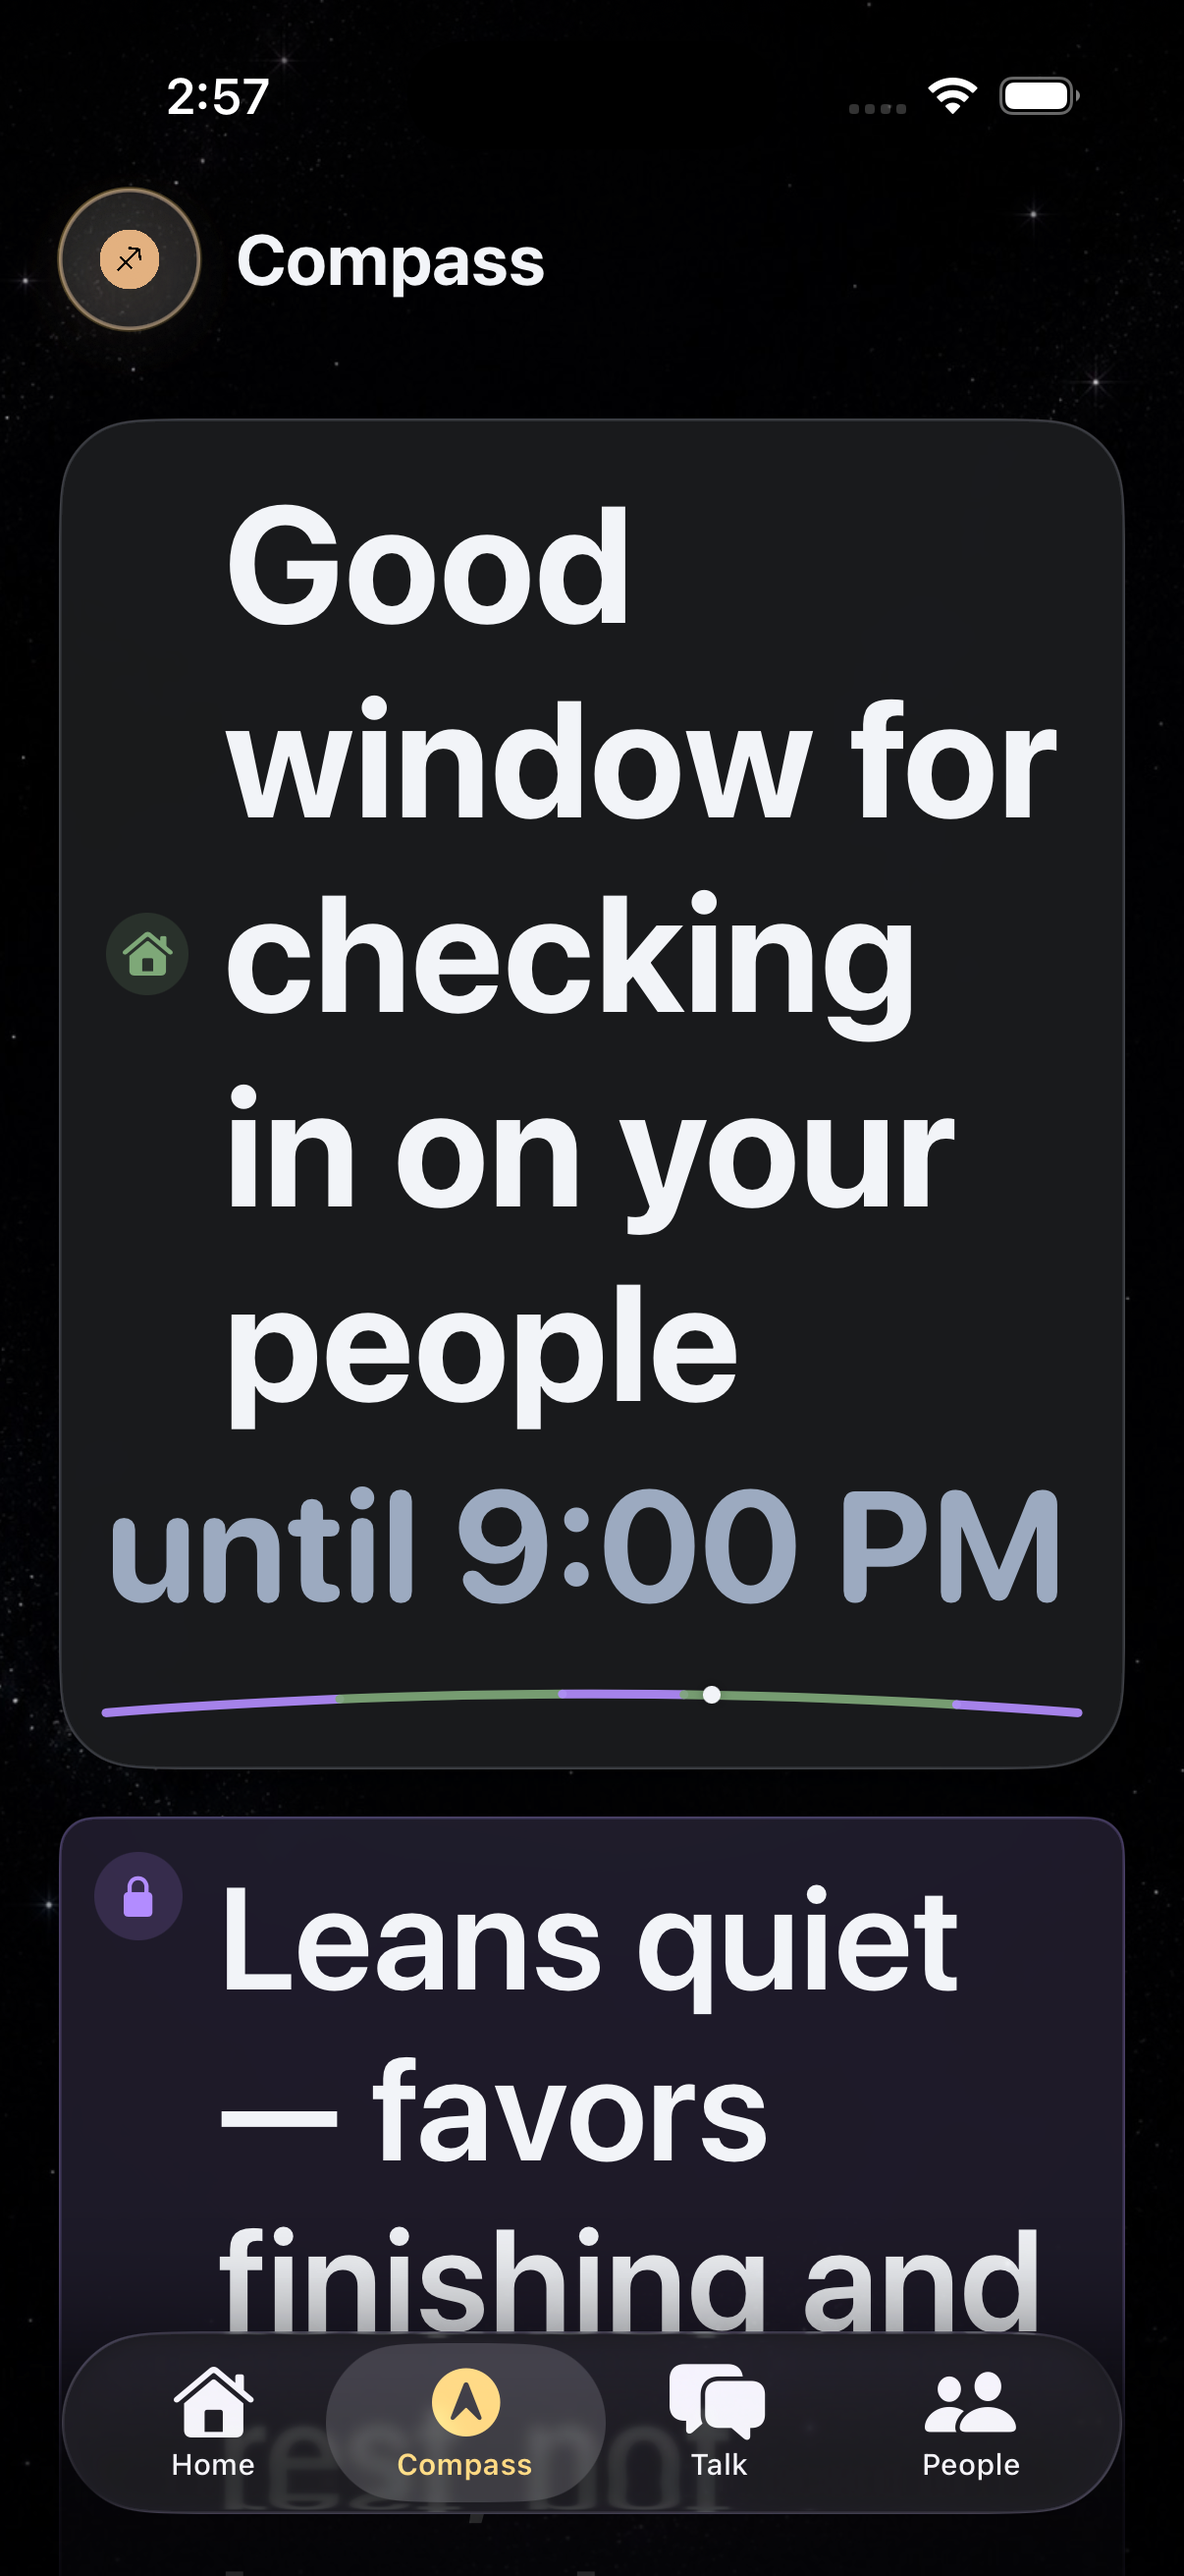
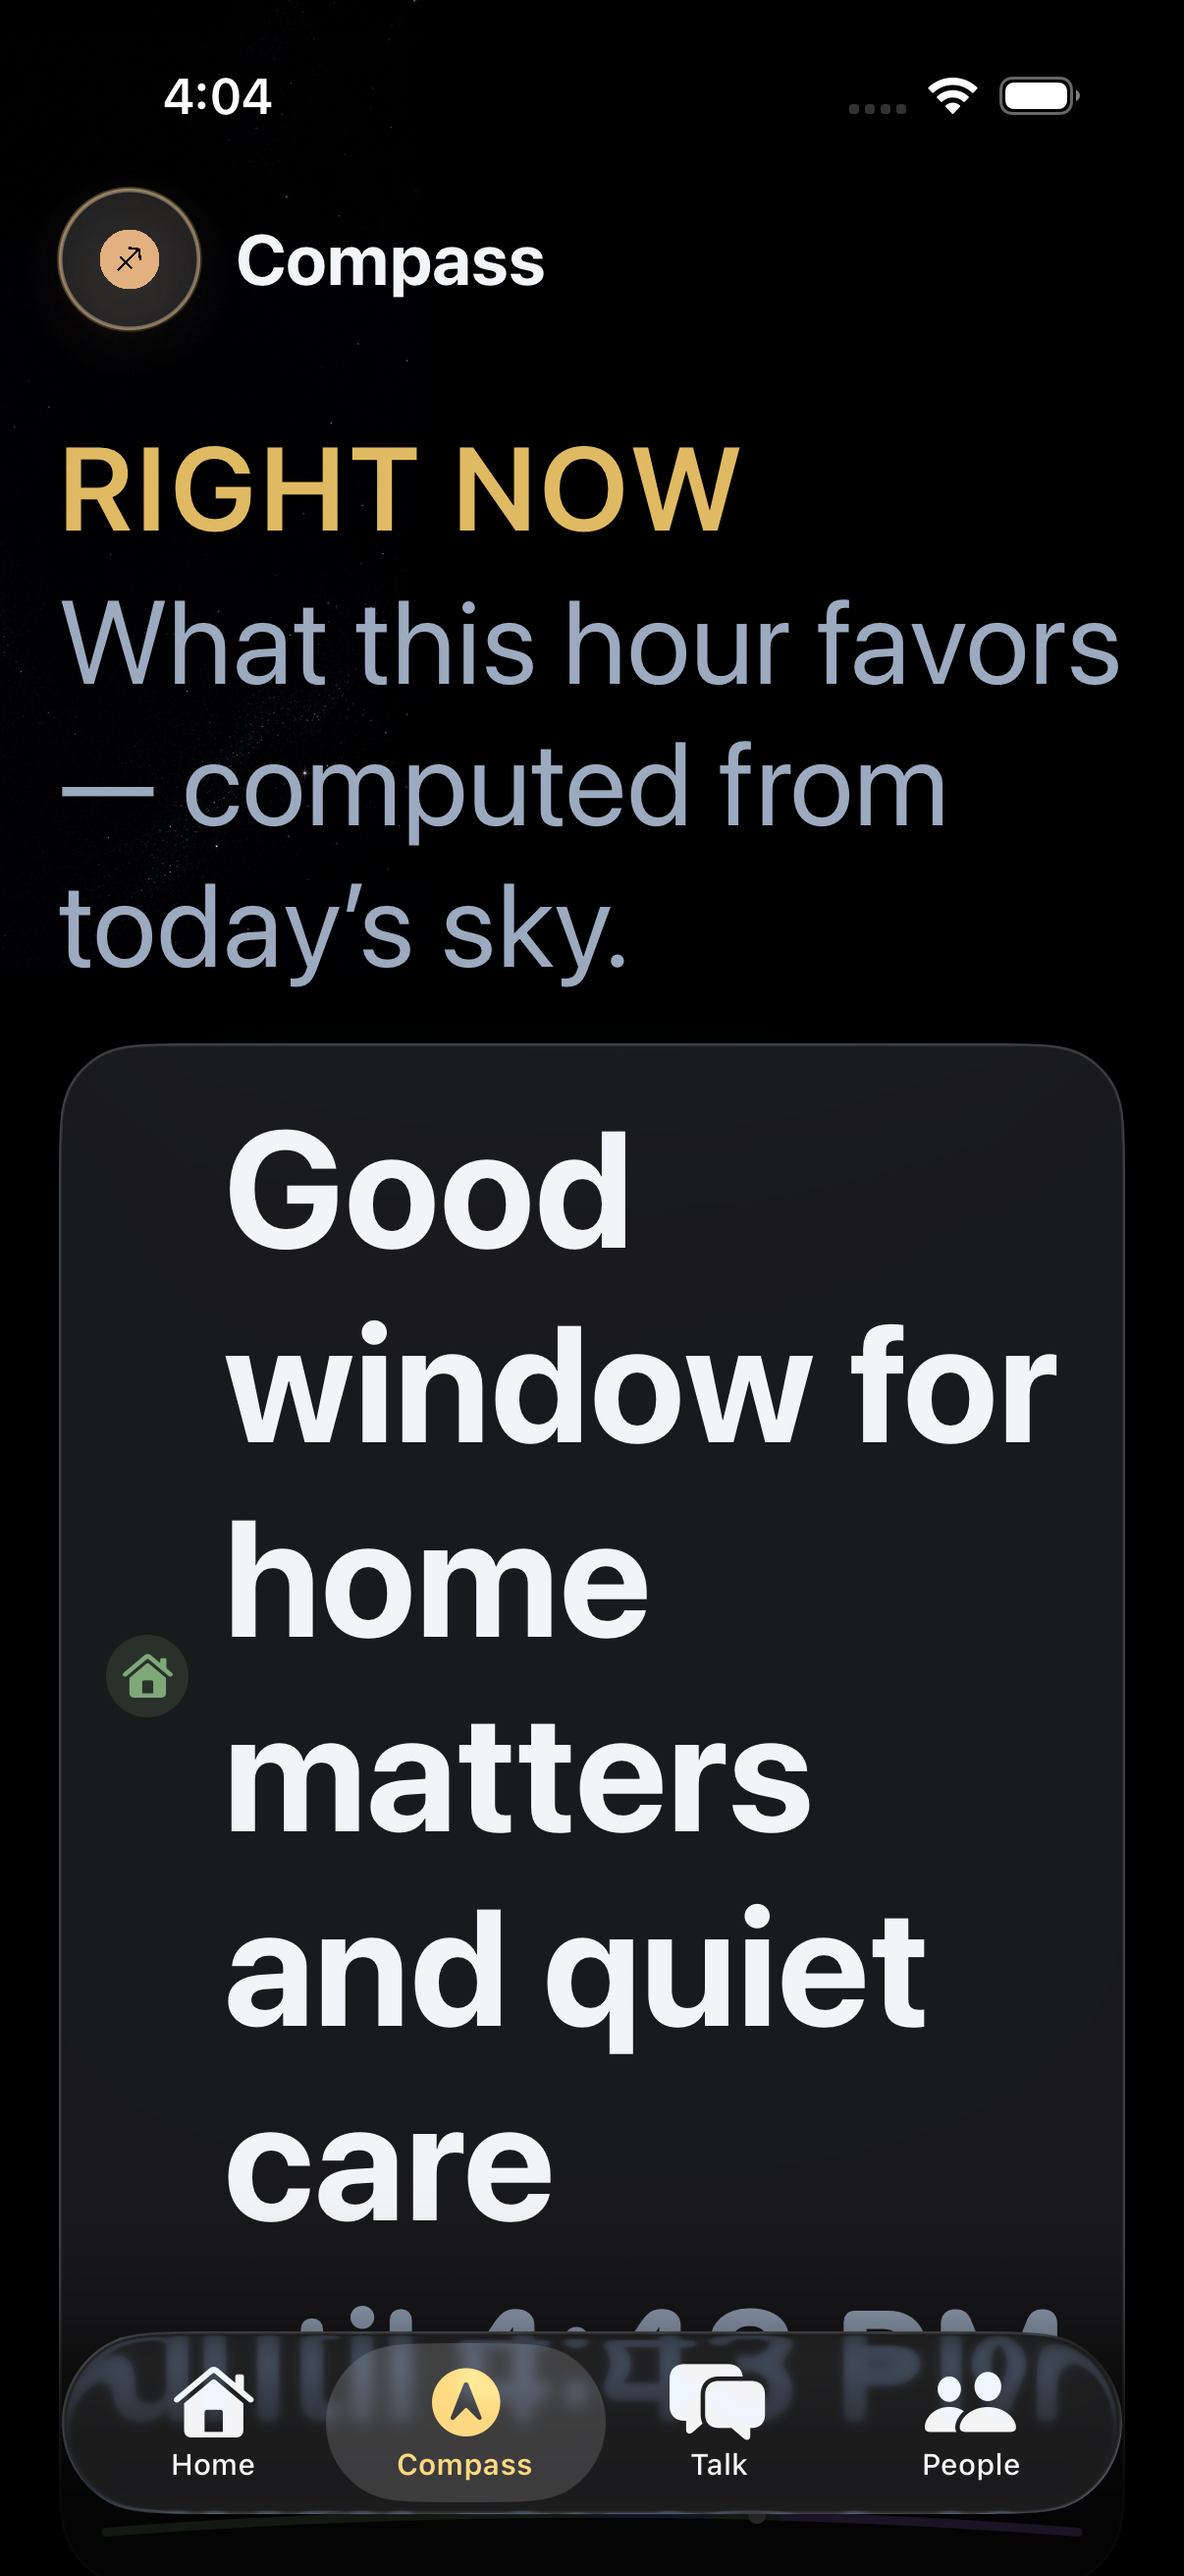
Make the Compass instrument read plainly for newcomers
A RIGHT NOW kicker and a "what this hour favors — computed from
today's sky" caption now frame the dial, so someone who knows no
astrology understands what they are looking at; quiet and personal
windows drop the personal token's padlock (which read as paywalled
content on a free timeline) for neutral glyphs; and the 366x3 language
lint now also bans astrology jargon from the default practical style.

Landing the framing surfaced a serious latent bug: scrolling to the
composer anchor inside the LazyVStack could wedge the layout in a
non-convergent estimate/anchor cycle that pegged the main thread
("process main thread busy for 30.0s"), hanging the app for real users
and every UITest interaction after the composer expanded. Which content
heights triggered it changed with the day's window titles — this is
what intermittently failed the composer UITests in earlier full-suite
runs. The scroll content is now an eager VStack (a dozen children;
laziness bought nothing), and the day-windows compute task keeps a
computed-key guard so re-appearances skip redundant ephemeris work.

Verified: mirror Debug build; 47/47 SimastryTests including the new
jargon lint; the five affected UITests green, with the previously
hanging testCompassProgressivelyRevealsIntentContext soaked 5/5 in the
exact content period where the LazyVStack version failed 5/5 (and the
pre-change tree passed 5/5, isolating the trigger); all four compass
baselines regenerated and reviewed (kicker/caption present, no
[…]

diff --git a/App/Views/CompassInstrumentComponents.swift b/App/Views/CompassInstrumentComponents.swift
@@ -28,8 +28,14 @@ private func compassTint(for tokenID: String) -> Color {
     compassToken(for: tokenID)?.color ?? SimastryColor.gold
 }
 
-private func compassIcon(for tokenID: String) -> String {
-    compassToken(for: tokenID)?.systemImage ?? "sparkles"
+/// C2: instrument surfaces map icons by window kind, not raw token — the
+/// personal token's padlock reads as "locked content" on a free timeline,
+/// so quiet and personal windows get neutral glyphs here. The composer's
+/// Private chip keeps its lock, where privacy is the intended meaning.
+private func compassIcon(for window: DayWindow) -> String {
+    if window.kind == .quiet { return "moon.zzz.fill" }
+    if window.tokenID == SimastryCategoryToken.personal.rawValue { return "sparkles" }
+    return compassToken(for: window.tokenID)?.systemImage ?? "sparkles"
 }
 
 private func compassTimeRangeText(_ interval: DateInterval) -> String {
@@ -39,6 +45,30 @@ private func compassTimeRangeText(_ interval: DateInterval) -> String {
 private func compassSegmentAccessibilityLabel(_ window: DayWindow, isCurrent: Bool) -> String {
     let base = "\(compassClockFormatter.string(from: window.interval.start))–\(compassClockFormatter.string(from: window.interval.end)), \(window.title)"
     return isCurrent ? "\(base), current" : base
+}
+
+// MARK: - Dial framing (C1)
+
+/// The one-line frame that tells a newcomer what the dial is, kept OUTSIDE
+/// the dial card on purpose: children added inside the TimelineView-driven
+/// card put its height into a feedback loop with the composer-expand scroll
+/// (lazy re-instantiation restarts the arc sweep, the animation never
+/// settles, and XCUITest's idle wait hangs). Static text out here restarts
+/// nothing. Shared by the authed Compass and the guest surface.
+struct CompassDialFraming: View {
+    var body: some View {
+        VStack(alignment: .leading, spacing: SimastrySpacing.xxs) {
+            Text("RIGHT NOW")
+                .font(SimastryFont.overline)
+                .foregroundStyle(SimastryColor.gold)
+                .tracking(1.2)
+            Text("What this hour favors — computed from today’s sky.")
+                .font(SimastryFont.captionSmall)
+                .foregroundStyle(SimastryColor.mutedSilver)
+                .fixedSize(horizontal: false, vertical: true)
+        }
+        .accessibilityElement(children: .combine)
+    }
 }
 
 // MARK: - Now dial
@@ -80,13 +110,13 @@ struct CompassNowDial: View {
 
     private var accessibilityLabel: String {
         guard let window = currentWindow else { return "Today's windows, loading" }
-        return "\(window.title). Until \(compassClockFormatter.string(from: window.interval.end))."
+        return "\(window.title). Until \(compassClockFormatter.string(from: window.interval.end)). Computed from today's sky."
     }
 
     @ViewBuilder
     private func dialLine(result: DayWindowsResult, window: DayWindow) -> some View {
         let tint = compassTint(for: window.tokenID)
-        let icon = compassIcon(for: window.tokenID)
+        let icon = compassIcon(for: window)
         let untilText = "until \(compassClockFormatter.string(from: window.interval.end))"
 
         VStack(alignment: .leading, spacing: SimastrySpacing.sm) {
@@ -356,7 +386,7 @@ struct CompassTodayStrip: View {
 
     private func segmentButton(window: DayWindow, index: Int) -> some View {
         let tint = compassTint(for: window.tokenID)
-        let icon = compassIcon(for: window.tokenID)
+        let icon = compassIcon(for: window)
         let isSelected = selection == window.id
         let isCurrent = window.interval.contains(now)
 
@@ -436,7 +466,7 @@ struct CompassTodayStrip: View {
 
     private func verticalRow(window: DayWindow, index: Int) -> some View {
         let tint = compassTint(for: window.tokenID)
-        let icon = compassIcon(for: window.tokenID)
+        let icon = compassIcon(for: window)
         let isSelected = selection == window.id
         let isCurrent = window.interval.contains(now)
 

diff --git a/App/Views/SimulateView.swift b/App/Views/SimulateView.swift
@@ -35,6 +35,11 @@ struct SimulateView: View {
     @State private var transitReading: DailyTransitReading?
     @State private var submissionCoordinator = PredictionSubmissionCoordinator.shared
     @State private var dayWindows: DayWindowsResult?
+    /// The task key `dayWindows` was last computed for. The compute task
+    /// re-runs whenever the instrument re-appears (tab switches, navigation
+    /// pushes); the guard skips the ephemeris math and the state rewrite
+    /// when nothing about the day or style actually changed.
+    @State private var computedDayWindowsKey: String?
     @State private var selectedWindowID: String?
     @State private var canonicalDailyGuidance: DailyGuidance?
     /// D3: the composer is demoted behind `CompassAskYourOwnRow`, collapsed
@@ -295,6 +300,8 @@ struct SimulateView: View {
     @ViewBuilder
     private var compassInstrument: some View {
         VStack(alignment: .leading, spacing: SimastrySpacing.md) {
+            CompassDialFraming()
+
             TimelineView(.everyMinute) { context in
                 VStack(alignment: .leading, spacing: SimastrySpacing.md) {
                     instrumentReveal(CompassNowDial(result: dayWindows, now: context.date), step: 0)
@@ -304,6 +311,7 @@ struct SimulateView: View {
                     )
                 }
                 .task(id: dayWindowsTaskKey(for: context.date)) {
+                    guard computedDayWindowsKey != dayWindowsTaskKey(for: context.date) else { return }
                     await recomputeDayWindows(now: context.date)
                 }
             }
@@ -375,7 +383,16 @@ struct SimulateView: View {
     var body: some View {
         ScrollViewReader { proxy in
             ScrollView {
-                LazyVStack(alignment: .leading, spacing: SimastrySpacing.lg) {
+                // Eager on purpose. This screen has about a dozen children, so
+                // laziness buys nothing — and it cost a hard main-thread spin:
+                // `scrollTo(composerAnchorID)` inside a LazyVStack whose row
+                // heights re-negotiate (ViewThatFits dial, flexible captions)
+                // can make the lazy height estimates and the anchor position
+                // chase each other without converging, pegging the main thread
+                // ("process main thread busy for 30.0s") the moment the
+                // composer expands. A plain VStack has exact geometry, so the
+                // anchor scroll resolves in one pass.
+                VStack(alignment: .leading, spacing: SimastrySpacing.lg) {
                     compassInstrument
 
                     instrumentReveal(
@@ -593,6 +610,7 @@ struct SimulateView: View {
             style: style
         )
         dayWindows = await DayWindowsEngine.windows(for: inputs)
+        computedDayWindowsKey = dayWindowsTaskKey(for: now)
     }
 
     private func applyLegacyDraftIfNeeded() {

diff --git a/Tests/DayWindowsEngineTests.swift b/Tests/DayWindowsEngineTests.swift
@@ -259,6 +259,22 @@ final class DayWindowsEngineTests: XCTestCase {
                     }
                     XCTAssertFalse(title.contains("°"), "degree language never belongs in titles: \(title)")
                     XCTAssertFalse(entry.rationale.contains("°"), "degree language never belongs in rationales: \(entry.rationale)")
+                    if style == .practical {
+                        // The default style is the consumer-facing one: it must
+                        // read for someone who knows no astrology. Jargon lives
+                        // in the detail card and the opt-in richer styles.
+                        let jargon = [
+                            "trine", "sextile", "conjunct", "opposition", "square to",
+                            "void-of-course", "void of course", "ingress", "transit",
+                            "ruler", "retrograde", "moon in", "hour of"
+                        ]
+                        for term in jargon {
+                            XCTAssertFalse(
+                                haystack.contains(term),
+                                "day \(dayOfYear) practical \(entry.kind): astrology term '\(term)' in the plain style: \(haystack)"
+                            )
+                        }
+                    }
                 }
             }
         }

diff --git a/docs/superpowers/plans/2026-07-14-onboarding-compass-first.md b/docs/superpowers/plans/2026-07-14-onboarding-compass-first.md
@@ -41,7 +41,7 @@
 - [ ] **Step B2:** Thread `idPrefix` through the three components (default `"compass"`). Build; run `testCompassShowsGlanceableWindowsWithoutTyping`. Expected: PASS (authed ids unchanged).
 - [ ] **Step B3:** Create `GuestCompassView`: `CelestialBackground` + ScrollView; `TimelineView(.everyMinute)` hosting `CompassNowDial`/`CompassTodayStrip`/`CompassWindowDetailCard` with `idPrefix: "guestCompass"`, windows computed in `.task` exactly the way `SimulateView.recomputeDayWindows` calls the engine but with nil location and nil natal signs, `GuidanceStyle.practical`; three `CompassBearingItem`s (work/love/money, ids `guestCompass.bearing.<slug>`, questions from `FutureQuestionCategory` `.careerSuccess`/`.loveTiming`/`.moneyDirection` day-picked like `SimulateView.bearingQuestion`); tap ⇒ local read via `PredictionService().generatePrediction(request:, tier: "free")` with the request built the way `FirstPredictionView.generatePrediction` builds it (`DecodeTextView.swift:540-570`), result in `SimulationResultView` (nil-optional callbacks), loading + inline error states copied from `FirstPredictionView`; after one completed read, bearing taps route to the sign-up footer instead (`hasUsedGuestRead` @State); footer = `GoldButton("Keep your windows — create an account")` ⇒ the sign-up transition done the way `FirstExpertReadView.swift:195` does it inline (`withAnimation { viewModel.currentScreen = .signUp }` shape — there is no viewmodel method for it) + `SecondaryButton("Add your chart for timing")` ⇒ `viewModel.continueToBirthDetails(after: .predict)`; `FirstPredictionView`'s `privacyLine` text moves here with "free · computed on this device" framing; localized via new `guestCompass.*` keys.
 - [ ] **Step B4:** Wire `ContentView` `.firstPrediction` → `GuestCompassView`; reroute `.decode` in the two `AppViewModel` methods; add the `"guestCompass"` preview value.
-- [ ] **Step B5:** Verify: build → full `SimastryTests` (routing test now green) → UITests: retargeted landing test + `testCompassShowsGlanceableWindowsWithoutTyping` + `testCompassBearingRunsReading` → shoot the full guest matrix and **add** to `QA/Screenshots/`: `shoot guest-compass-17pro 8 -SimastryPreviewSeeded -SimastryPreviewScreen guestCompass` (the seeded flag is required — `applyDebugPreviewStateIfRequested` hard-guards on it at AppViewModel:3771), `guest-compass-17e` via `SIMASTRY_SIM_UDID`, AX3/AX5 via appending `-UIPreferredContentSizeCategoryName UICTContentSizeCategoryAccessibilityExtraLarge` / `-UIPreferredContentSizeCategoryName UICTContentSizeCategoryAccessibilityExtraExtraExtraLarge`; look: dial kicker, no padlocks, three chips, footer CTAs, privacy line, AX vertical strip.
+- [ ] **Step B5:** Verify: build → full `SimastryTests` (routing test now green) → UITests: retargeted landing test + `testCompassShowsGlanceableWindowsWithoutTyping` + `testCompassBearingRunsReading` → shoot the full guest matrix and **add** to `QA/Screenshots/`: `shoot guest-compass-17pro 8 -SimastryPreviewSeeded -SimastryPreviewScreen guestCompass` (the seeded flag is required — `applyDebugPreviewStateIfRequested` hard-guards on it at AppViewModel:3771), `guest-compass-17e` via `SIMASTRY_SIM_UDID`, AX3/AX5 by setting the device size (`xcrun simctl ui <sim> content_size accessibility-extra-large` / `…accessibility-extra-extra-extra-large`, reset to `medium` after) — the `-UIPreferredContentSizeCategoryName` launch arg is silently ignored on the iOS 26.2 sim; look: dial kicker, no padlocks, three chips, footer CTAs, privacy line, AX vertical strip.
 - [ ] **Step B6: Commit** — `"Land the guest Compass first read"`.
 
 ### Task C: Real now-line on the landing screen (spec §1)
@@ -49,7 +49,7 @@
 **Files:**
 - Modify: `App/Views/CrystalLandingView.swift:107-149` (`liveBriefingCard`)
 - Modify: `UITests/SimastrySmokeUITests.swift:19` (the `"LIVE BRIEFING"` assertion)
-- Modify: `scripts/dev/redesign-verify.sh` (`landing` subcommand: pass optional extra launch args through to `simctl launch` so AX landing shots work)
+- Modify: `scripts/dev/redesign-verify.sh` only if still needed — AX shots now go through `xcrun simctl ui <sim> content_size <size>` (device-wide, no launch args), so the `landing` subcommand likely needs no pass-through
 - Baselines: **add** `landing-17pro.png`, `landing-17e.png`, `landing-17pro-ax3.png`
 
 - [ ] **Step C1 (tests first):** (a) Retarget the landing UITest's front half: assert `landing.nowLine` exists (waitForExistence 10 — compute is async) instead of `"LIVE BRIEFING"`; keep both CTA assertions. (b) Create `Tests/LandingNowLineTests.swift`: the landing line composer returns the dial-format pieces (window title + "until h:mm a") for an active window and nil for an empty/finished result — this forces C2 to extract the line as a small testable helper rather than inline view code. Run both. Expected: FAIL.
